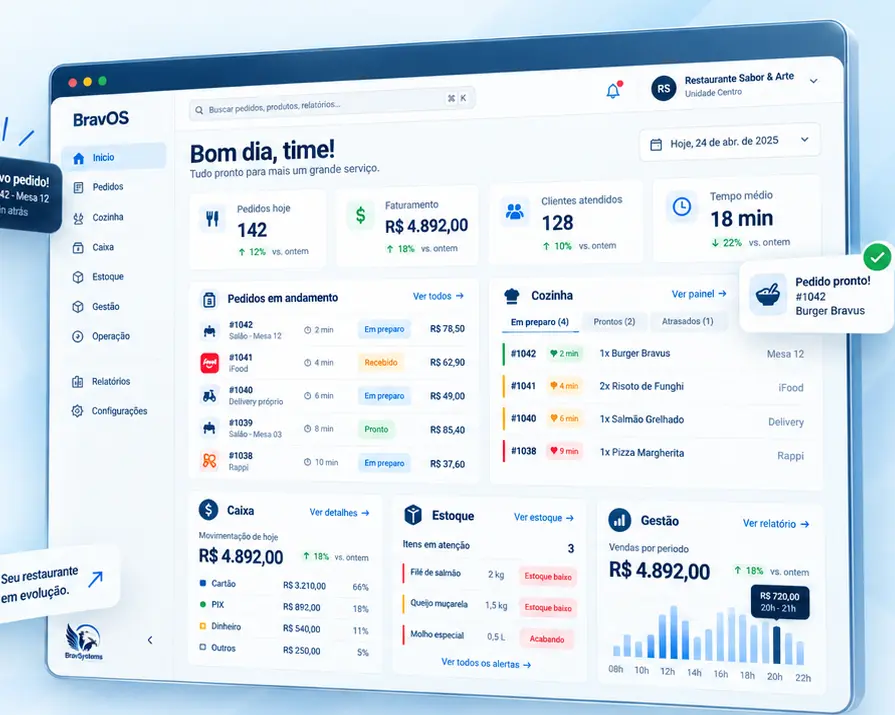
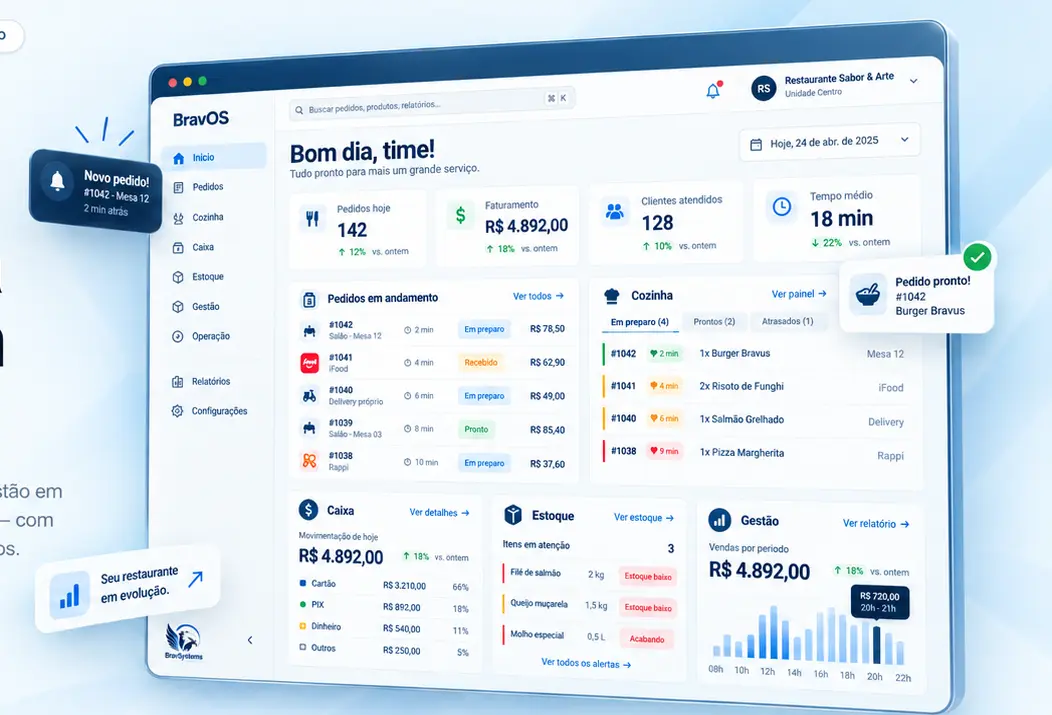
fix: preservar quadro completo no hero BravOS

diff --git a/app/globals.css b/app/globals.css
@@ -52,7 +52,7 @@ a:focus-visible, button:focus-visible, summary:focus-visible {
   max-width: 100%;
   min-width: 0;
   min-height: 0;
-  aspect-ratio: 895 / 715;
+  aspect-ratio: 1052 / 715;
   padding: 0;
   background-color: transparent;
   background-image: url("/bravos-hero-approved.webp");
@@ -83,11 +83,3 @@ a:focus-visible, button:focus-visible, summary:focus-visible {
   display: none;
 }
 
-/* Mobile: enquadramento mais fechado do MESMO asset, sem esticar ou deformar. */
-@media (max-width: 639px) {
-  #inicio [aria-label="Fluxo operacional do BravOS"] {
-    aspect-ratio: 2 / 3;
-    background-size: auto 100%;
-    background-position: 54% center;
-  }
-}
